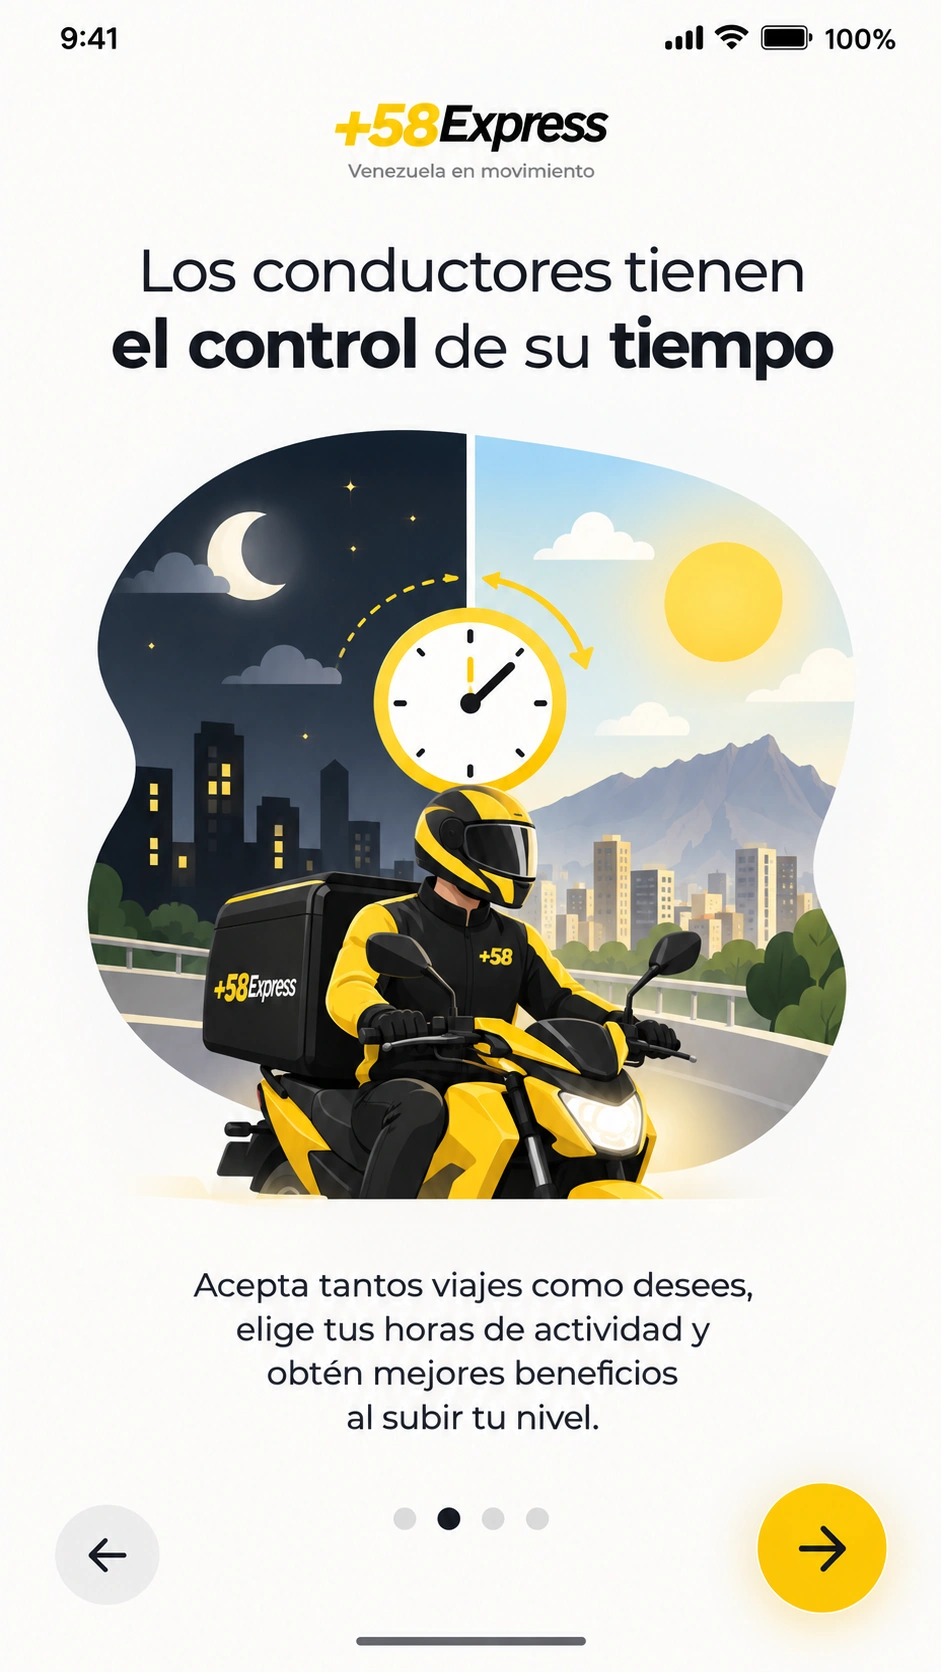
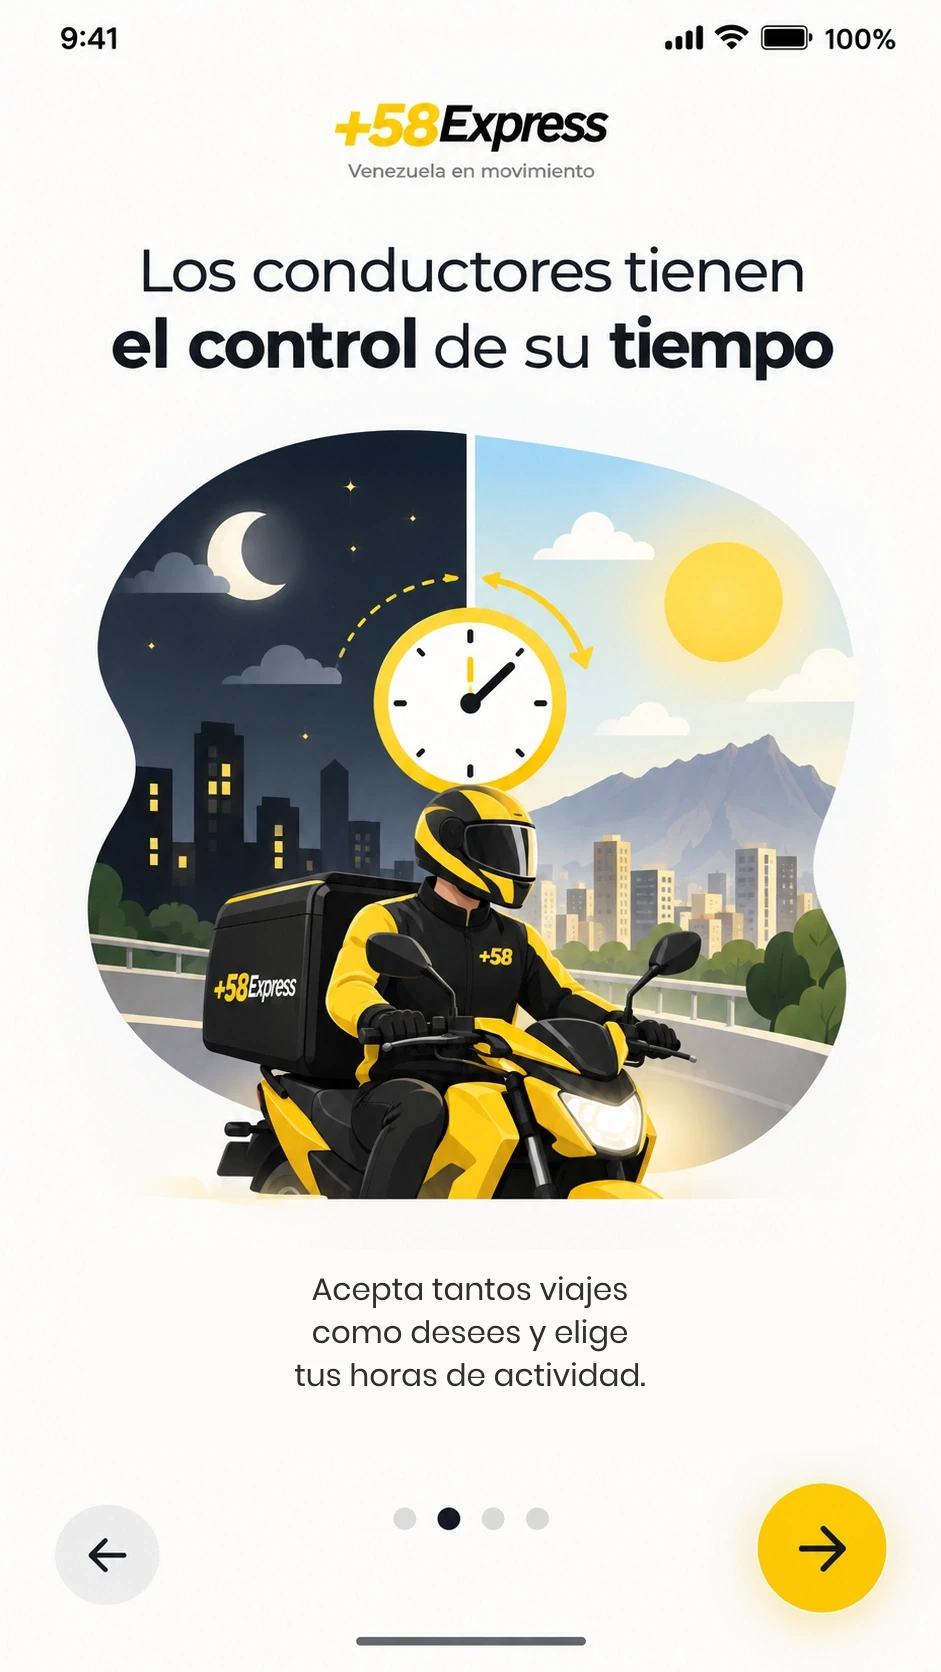
fix(web): las capturas prometian cosas que el producto no puede sostener
La regla del principio de lib/content.ts -"aqui no entra ni una cifra que
no se pueda respaldar"- valia para el texto y no se estaba aplicando a
las imagenes. Nadie distingue si una promesa esta escrita en HTML o
pintada en un pixel.

home.webp
  · fuera la tasa de cambio en bolivares con dos decimales, que se lee
    como la de hoy
  · fuera el nombre y la cara de una persona que no existe, y una
    valoracion "0.00" que ademas parecia un error; queda un avatar neutro
  · la cifra de usuarios diarios -a medio escribir, sin el numero- pasa a
    ser las tres zonas reales: Maracaibo, El Mojan y Santa Cruz de Mara
  · "y a toda Venezuela" pasa a "y con rastreo"

map-select.webp
  · fuera la tarifa concreta, las tres veces que aparecia
  · fuera la fila de auto para cuatro personas: el sitio no ofrece viajes
    en auto ni una sola vez, asi que la captura tampoco puede ofrecerlos
  · el total invierte la jerarquia: ahora manda la distancia, que es un
    hecho, y la tarifa se nombra sin cifra
  · fuera los nombres de tres negocios reales sobre el mapa. Los
    alfileres se quedan -son puntos de interes cualesquiera-, los nombres
    no: no hay ninguna relacion comercial con ellos

driver-onboarding.webp
  · fuera "obten mejores beneficios al subir tu nivel": un programa de
    niveles que no esta confirmado como parte del producto

No se rediseno nada. Mismas pantallas, misma composicion, mismas fotos,
[…]

Changed region(s): [[0.2157, 0.7464, 0.8013, 0.8708]]

diff --git a/web/components/home/Descarga.tsx b/web/components/home/Descarga.tsx
@@ -1,8 +1,7 @@
-import Image from "next/image";
 import InteractivePhone from "@/components/phone/InteractivePhone";
 import Reveal from "@/components/motion/Reveal";
 import { ButtonLink } from "@/components/ui/Button";
-import { screensById, STORES } from "@/lib/content";
+import { screensById } from "@/lib/content";
 import { WAITLIST_ENABLED } from "@/lib/flags";
 import { FormularioWaitlistDiferido } from "@/components/forms/Diferidos";
 import BotonWhatsApp from "@/components/site/BotonWhatsApp";
@@ -10,9 +9,10 @@ import BotonWhatsApp from "@/components/site/BotonWhatsApp";
 /**
  * Descarga.
  *
- * La aplicación todavía no está publicada. Los badges no son enlaces: son una
- * declaración de dónde estará. Inventar una URL de tienda seria enviar a la
- * gente a una página que no existe.
+ * La aplicación todavía no está publicada, y aquí no hay ningún enlace a una
+ * tienda: inventar una URL sería enviar a la gente a una página que no existe.
+ * Lo que hay es una declaración de dónde estará, escrita con nuestras palabras
+ * y no con las de Apple o Google — el porqué está más abajo, junto a la pieza.
  *
  * El formulario llega por `components/forms/Diferidos`, que lo mantiene en un
  * paquete aparte: con el interruptor apagado no se descarga nada de él. El
@@ -50,38 +50,40 @@ export default function Descarga() {
               Cuando la aplicación esté publicada, aparecerá aquí.
             </p>
 
+            {/* LOS DISTINTIVOS OFICIALES SE RETIRARON, Y NO POR ESTÉTICA.
+                El de Apple dice «Download on the App Store» y el de Google «GET
+                IT ON Google Play»: los dos afirman, con la voz de la tienda, que
+                la aplicación se puede descargar. No se puede — todavía no está
+                publicada—, y apagarlos al 55 % en escala de grises no desmiente
+                lo que la propia imagen dice. Se sustituyen por una pieza propia
+                que dice lo que hay.
+                Tampoco se redibujan sus logotipos: una marca ajena modificada
+                para fabricar un distintivo que ellos no han emitido sería peor
+                que el problema que arregla. Aquí sólo se nombra la plataforma. */}
             <div className="mt-10">
               <p className="text-[13px] font-bold uppercase tracking-[0.22em] text-paper-mute">
-                {STORES.label} en
+                Estará disponible en
               </p>
 
-              <div className="mt-4 flex flex-wrap items-center gap-4">
-                {/* Sin URL real no hay enlace: son marcas de destino, no botones */}
-                <span
-                  className="inline-flex opacity-55 grayscale"
-                  title="Disponible cuando la aplicación se publique"
-                >
-                  <Image
-                    src="/brand/badge-google.png"
-                    alt="Próximamente en Google Play"
-                    width={162}
-                    height={48}
-                    className="h-12 w-auto"
-                  />
-                </span>
-                <span
-                  className="inline-flex opacity-55 grayscale"
-                  title="Disponible cuando la aplicación se publique"
-                >
-                  <Image
-                    src="/brand/badge-apple.png"
-                    alt="Próximamente en App Store"
-                    width={162}
-                    height={48}
-                    className="h-12 w-auto"
-                  />
-                </span>
-              </div>
+              <ul className="mt-4 flex flex-wrap items-center gap-3">
+                {[
+                  { plataforma: "iOS", nota: "iPhone y iPad" },
+                  { plataforma: "Android", nota: "Teléfonos y tabletas" },
+                ].map(({ plataforma, nota }) => (
+                  <li
+                    key={plataforma}
+                    className="flex min-h-[56px] items-center gap-3 rounded-2xl border border-white/12 bg-white/[0.04] px-5 py-3"
+                  >
+                    <span aria-hidden className="h-2 w-2 shrink-0 rounded-full bg-signal" />
+                    <span className="leading-tight">
+                      <span className="block text-[15px] font-bold text-paper">
+                        Próximamente en {plataforma}
+                      </span>
+                      <span className="block text-[13px] text-paper-mute">{nota}</span>
+                    </span>
+                  </li>
+                ))}
+              </ul>
             </div>
 
             {/* Aquí irá la lista de espera. Mientras el interruptor esté apagado no

diff --git a/web/lib/content.ts b/web/lib/content.ts
@@ -136,6 +136,30 @@ export const SERVICES: Service[] = [
  *
  * `map-select` y `login` venían con marco de iPhone: se recortó el marco para
  * que el componente 3D aporte el suyo y no quede un teléfono dentro de otro.
+ *
+ * SON UNA DEMOSTRACIÓN VISUAL DEL PRODUCTO, Y NO UN ESCAPARATE DE PRECIOS
+ *
+ * La regla del principio de este fichero —«aquí no entra ni una cifra que no se
+ * pueda respaldar»— vale igual dentro de una imagen: nadie distingue si una
+ * promesa está escrita en HTML o pintada en un píxel. El 16 de septiembre de
+ * 2026 se limpiaron por eso, una a una:
+ *
+ *   · una tarifa concreta en dólares, repetida tres veces, que se leería como el
+ *     precio vigente de un viaje;
+ *   · una categoría de auto para cuatro personas que el sitio no ofrece ni una
+ *     sola vez;
+ *   · una tasa de cambio en bolívares con dos decimales, que se lee como la de
+ *     hoy;
+ *   · una cifra de usuarios diarios —y encima a medio escribir, con el número
+ *     literalmente ausente de la frase—;
+ *   · una cobertura nacional, de todo el país, que no existe;
+ *   · un programa de niveles con «mejores beneficios» sin confirmar;
+ *   · los nombres de tres negocios reales sobre el mapa, sin ninguna relación
+ *     comercial con ellos;
+ *   · un nombre y una cara de una persona que no existe.
+ *
+ * Lo que se conserva es el diseño entero: mismas pantallas, misma composición,
+ * mismas fotos, misma tipografía. Sólo cambió lo que afirmaba de más.
  */
 export const PHONE_SCREENS = [
   {
@@ -146,7 +170,7 @@ export const PHONE_SCREENS = [
   {
     id: "map",
     src: "/app/map-select.webp",
-    alt: "Mapa con la ruta trazada y el precio del viaje antes de confirmar",
+    alt: "Mapa con la ruta trazada y la distancia del viaje antes de confirmar",
   },
   {
     id: "login",
